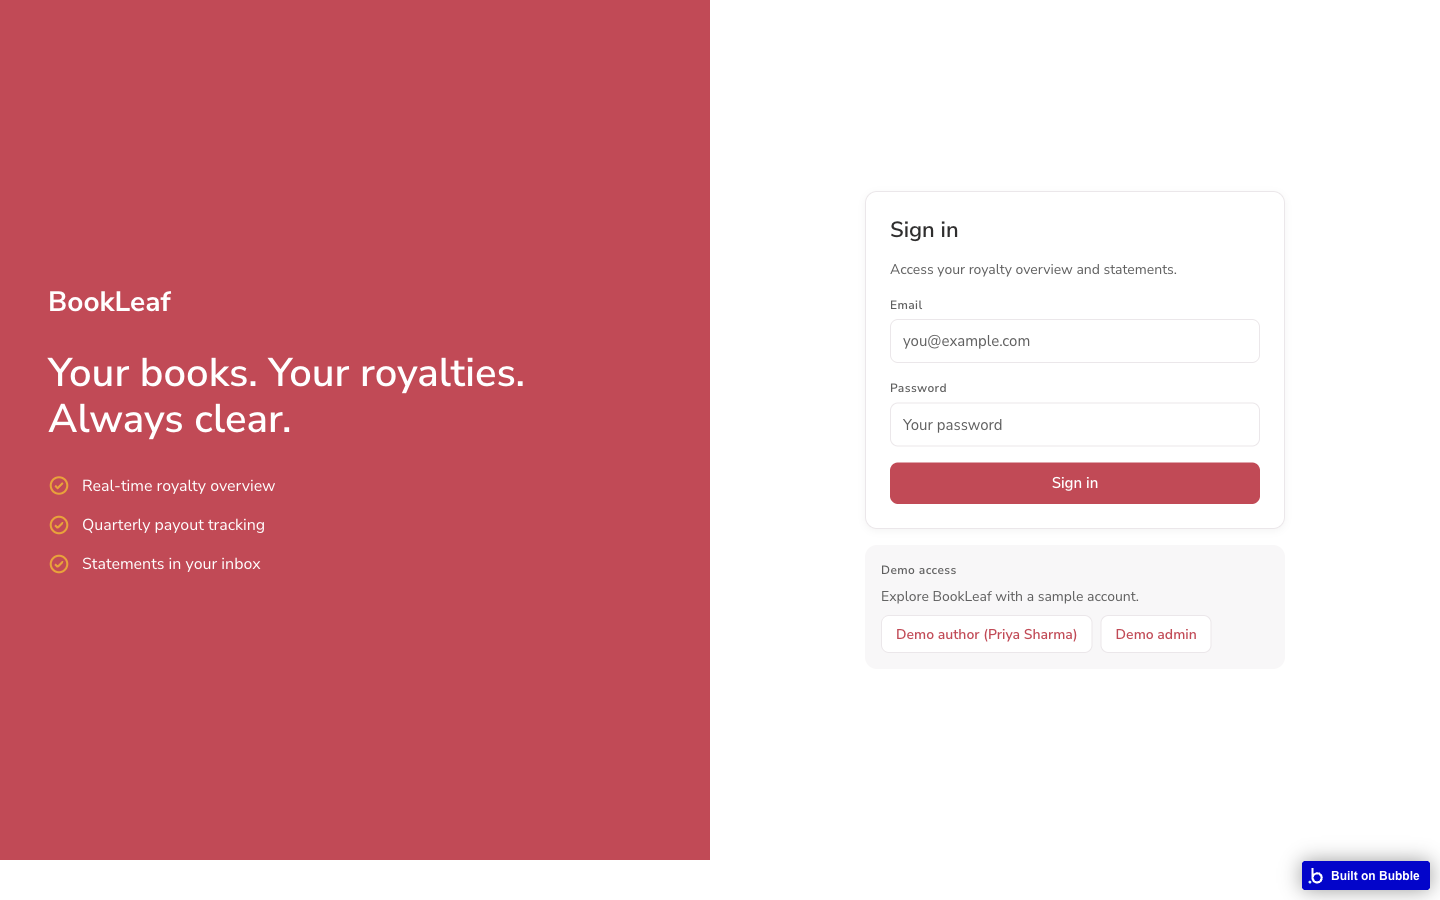
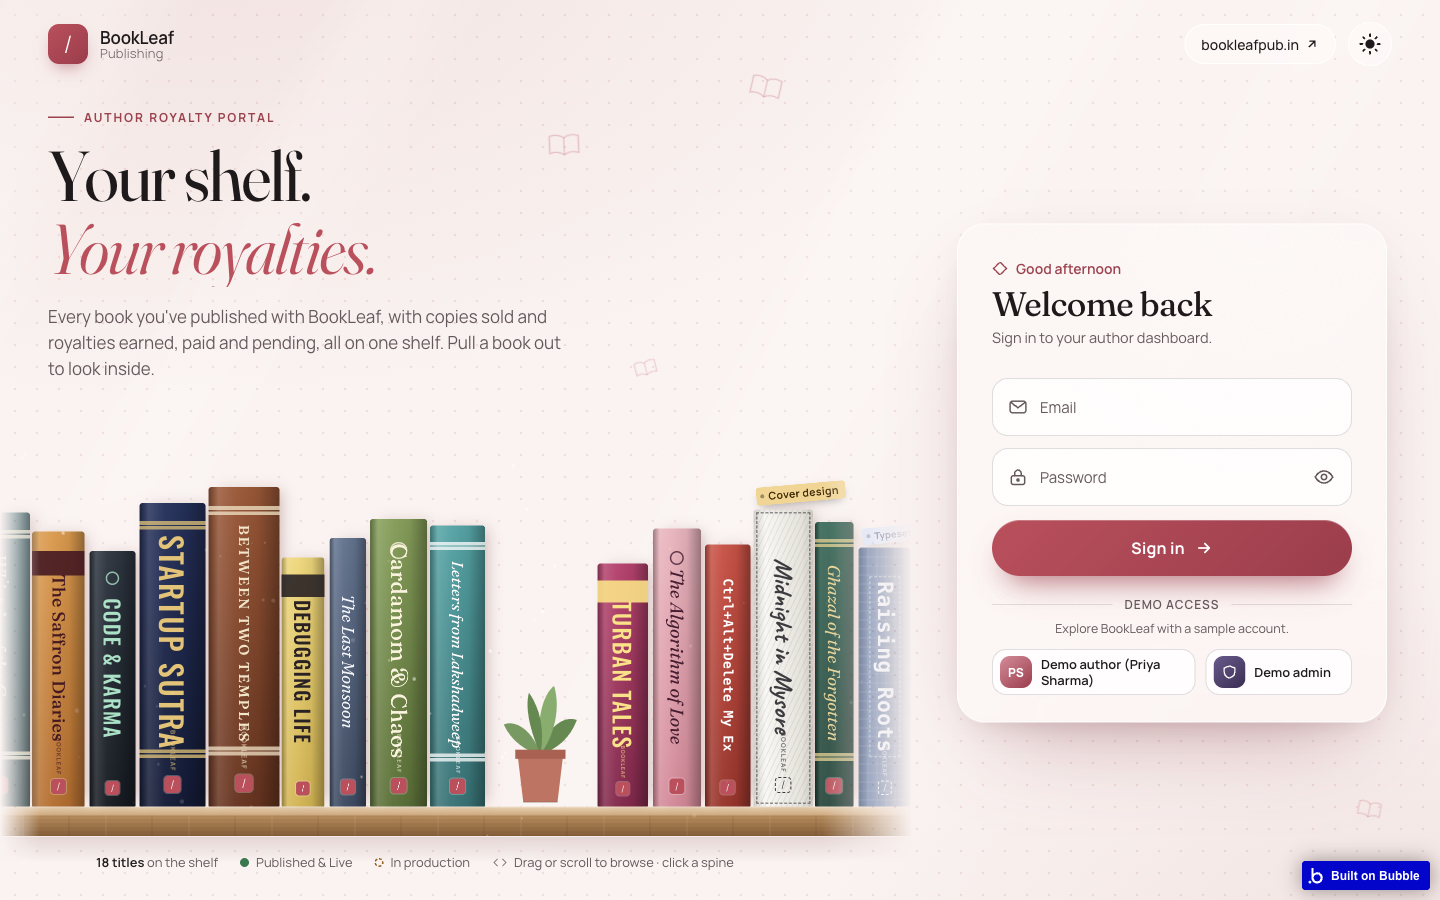
docs(tasks): Living Bookshelf sign-in page done (4e13027); new login screenshot

diff --git a/README.md b/README.md
@@ -26,7 +26,7 @@ date the sample data ends; admins can switch to today's date in Settings
 
 | | |
 |---|---|
-| ![Sign-in with demo buttons](docs/media/login.png) Sign-in, with one-click demo logins | ![Author dashboard](docs/media/author-dashboard.png) Author: KPI tiles and royalty overview badges |
+| ![Sign-in: the Living Bookshelf](docs/media/login.png) Sign-in: the Living Bookshelf, with one-click demo logins | ![Author dashboard](docs/media/author-dashboard.png) Author: KPI tiles and royalty overview badges |
 | ![Author books](docs/media/author-books.png) Author: My books and statements | ![Admin overview](docs/media/admin-overview.png) Admin: KPIs, charts, bulk send |
 | ![Admin authors](docs/media/admin-authors.png) Admin: authors table with filters | ![Author detail](docs/media/admin-author-detail.png) Admin: author drawer with Generate & Send |
 | ![Live progress](docs/media/admin-progress.png) Admin: live progress stepper | ![Notification log](docs/media/notification-log.png) Notification log: status, cost, preview |

diff --git a/TASKS.md b/TASKS.md
@@ -58,6 +58,7 @@ Legend: ⬜ TODO · 🔄 In progress · ✅ Done (commit SHA) · ⛔ Blocked
 - ✅ README + docs rewritten for the pull-only design, no placeholders left except the video link (c252989, 779424f)
 - ✅ 12 screenshots in `docs/media/` (73e513d); test logins checked through the sign-in form
 - ✅ n8n export: 7 workflows in `n8n/export/`
+- ✅ Sign-in page redesigned as "The Living Bookshelf" (concept 1): native Bubble sign-in, 8 workflows and 2 custom states unchanged; bookshelf scene is one HTML element; live checks passed (4e13027)
 - ✅ Bubble collaborator tried for musavir@bookleafpub.in: the free plan needs Growth to invite; fallback (URL + logins + video) noted in README (353ae27)
 - 🔄 Video (~4 min, real footage + AI voice) being produced
 - ⬜ Share links: GitHub access for the reviewer (private repo) and the video link
